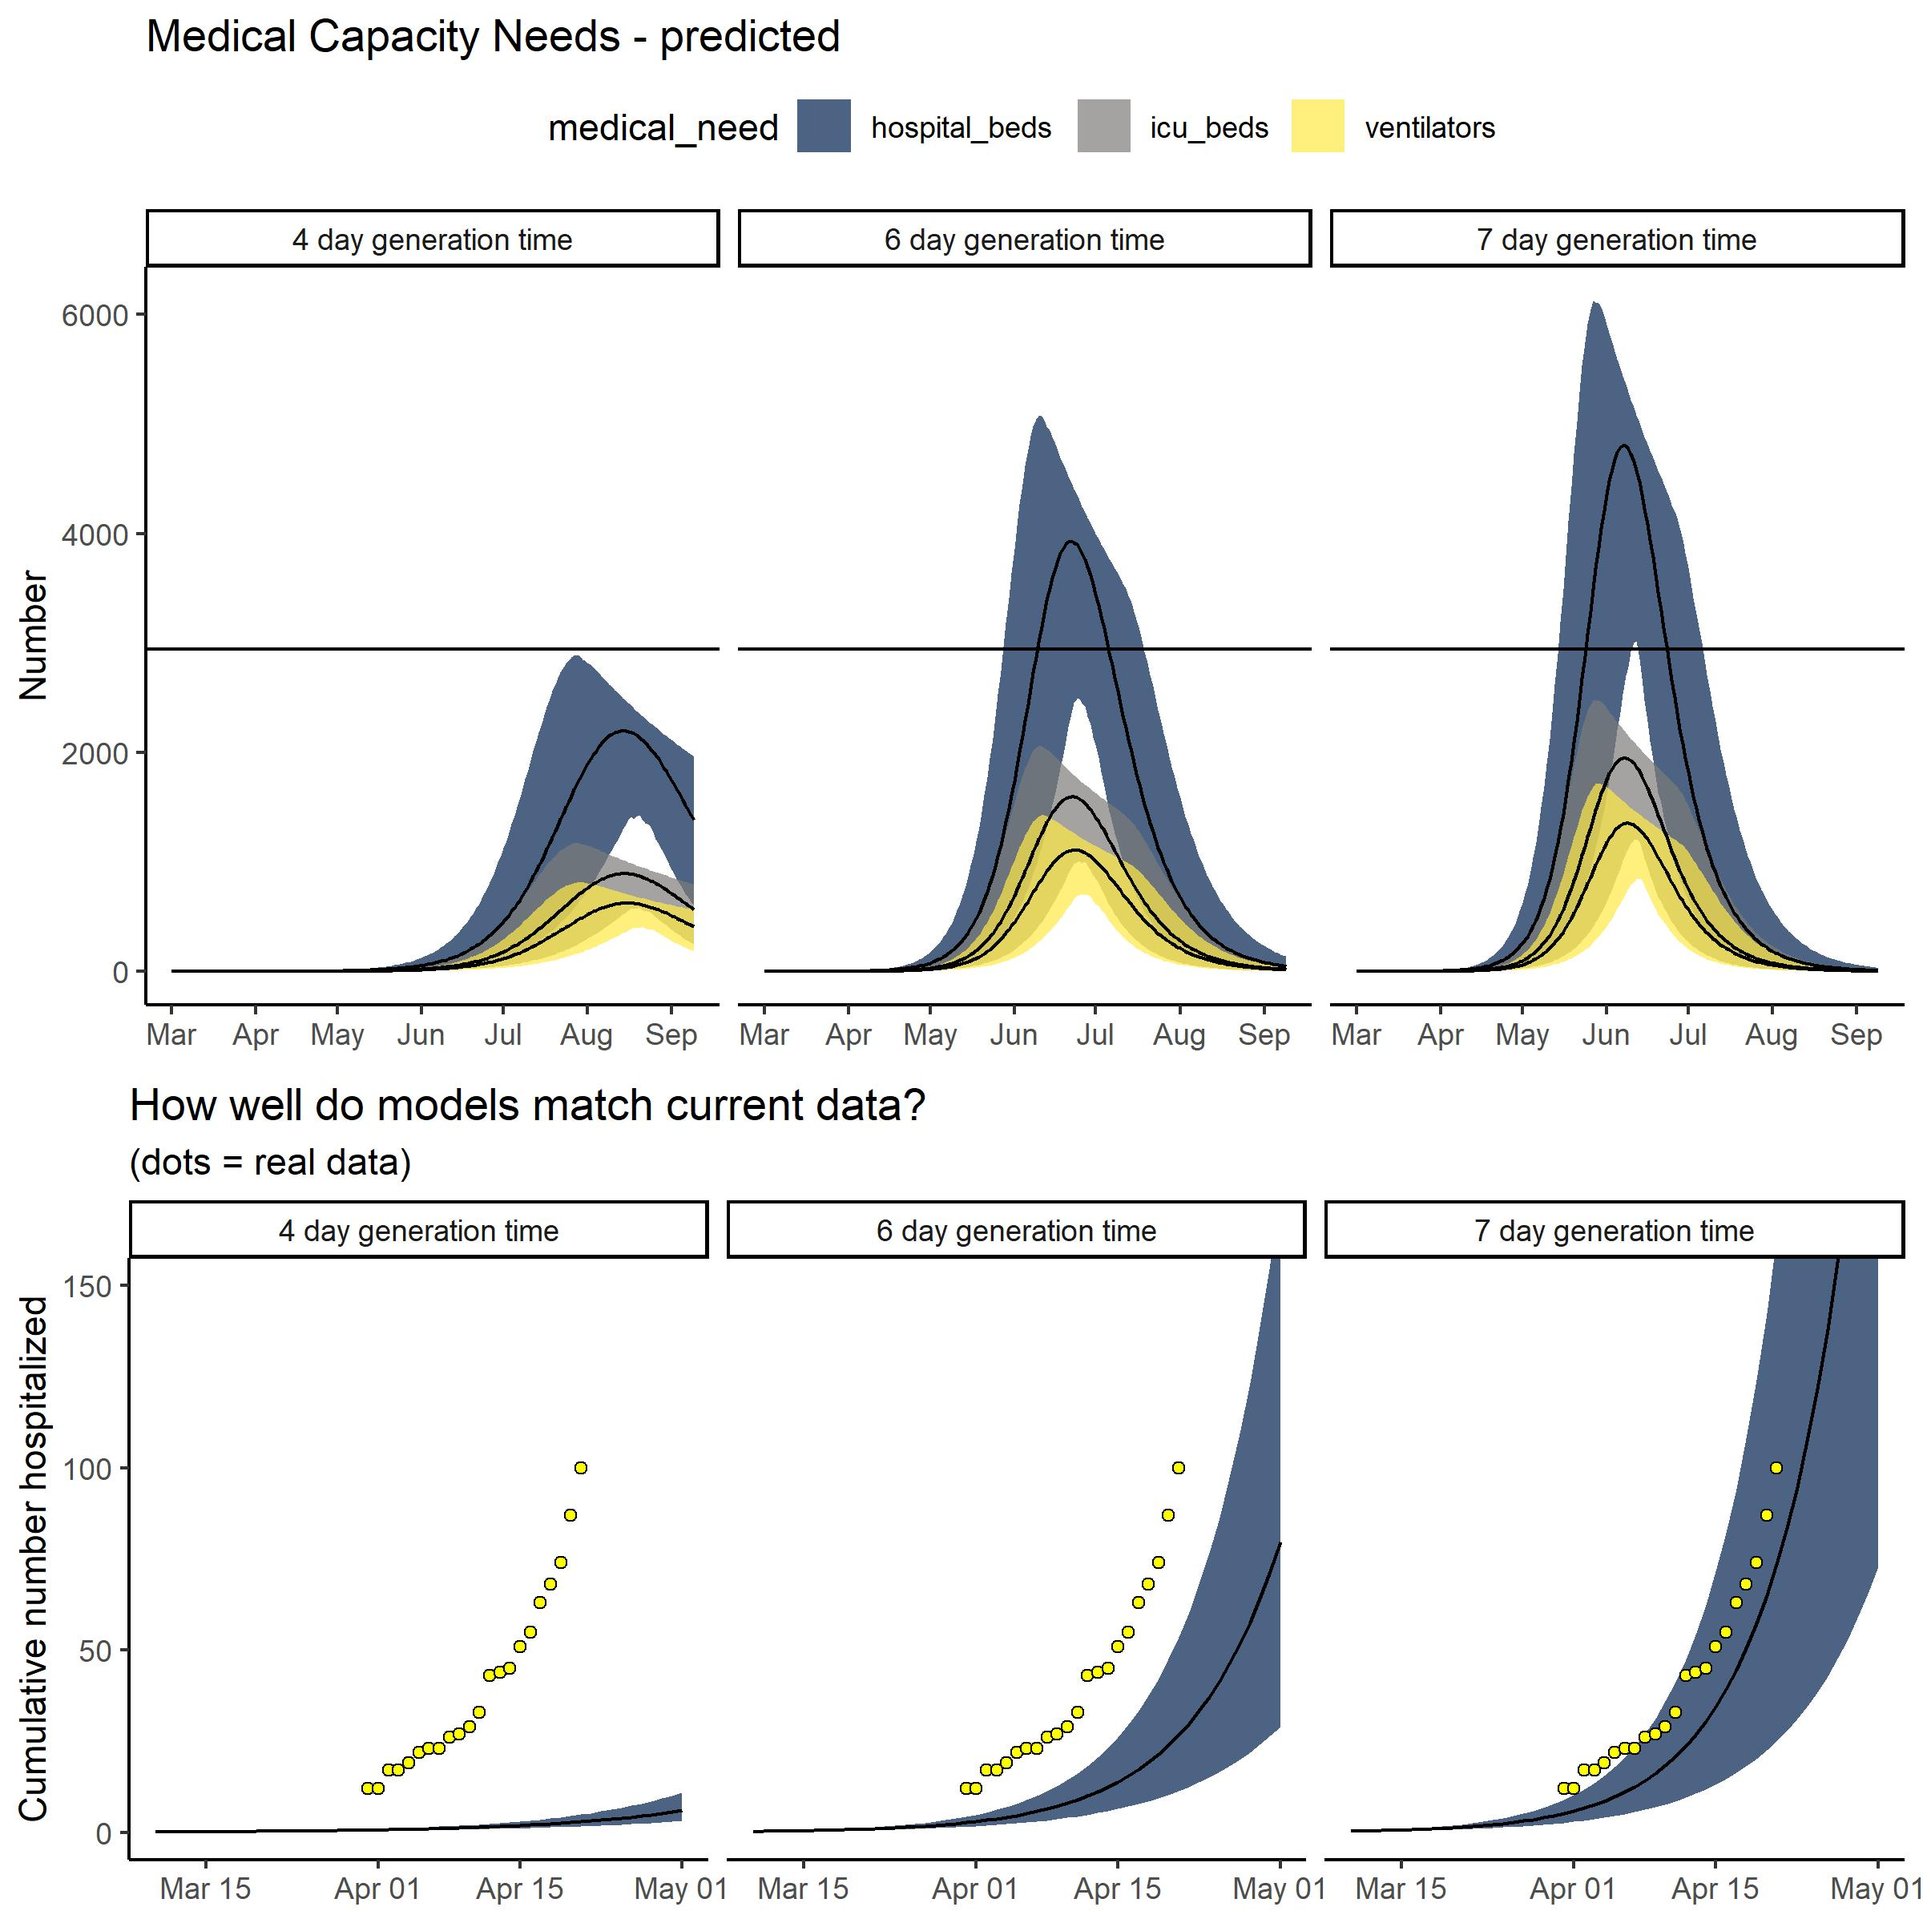
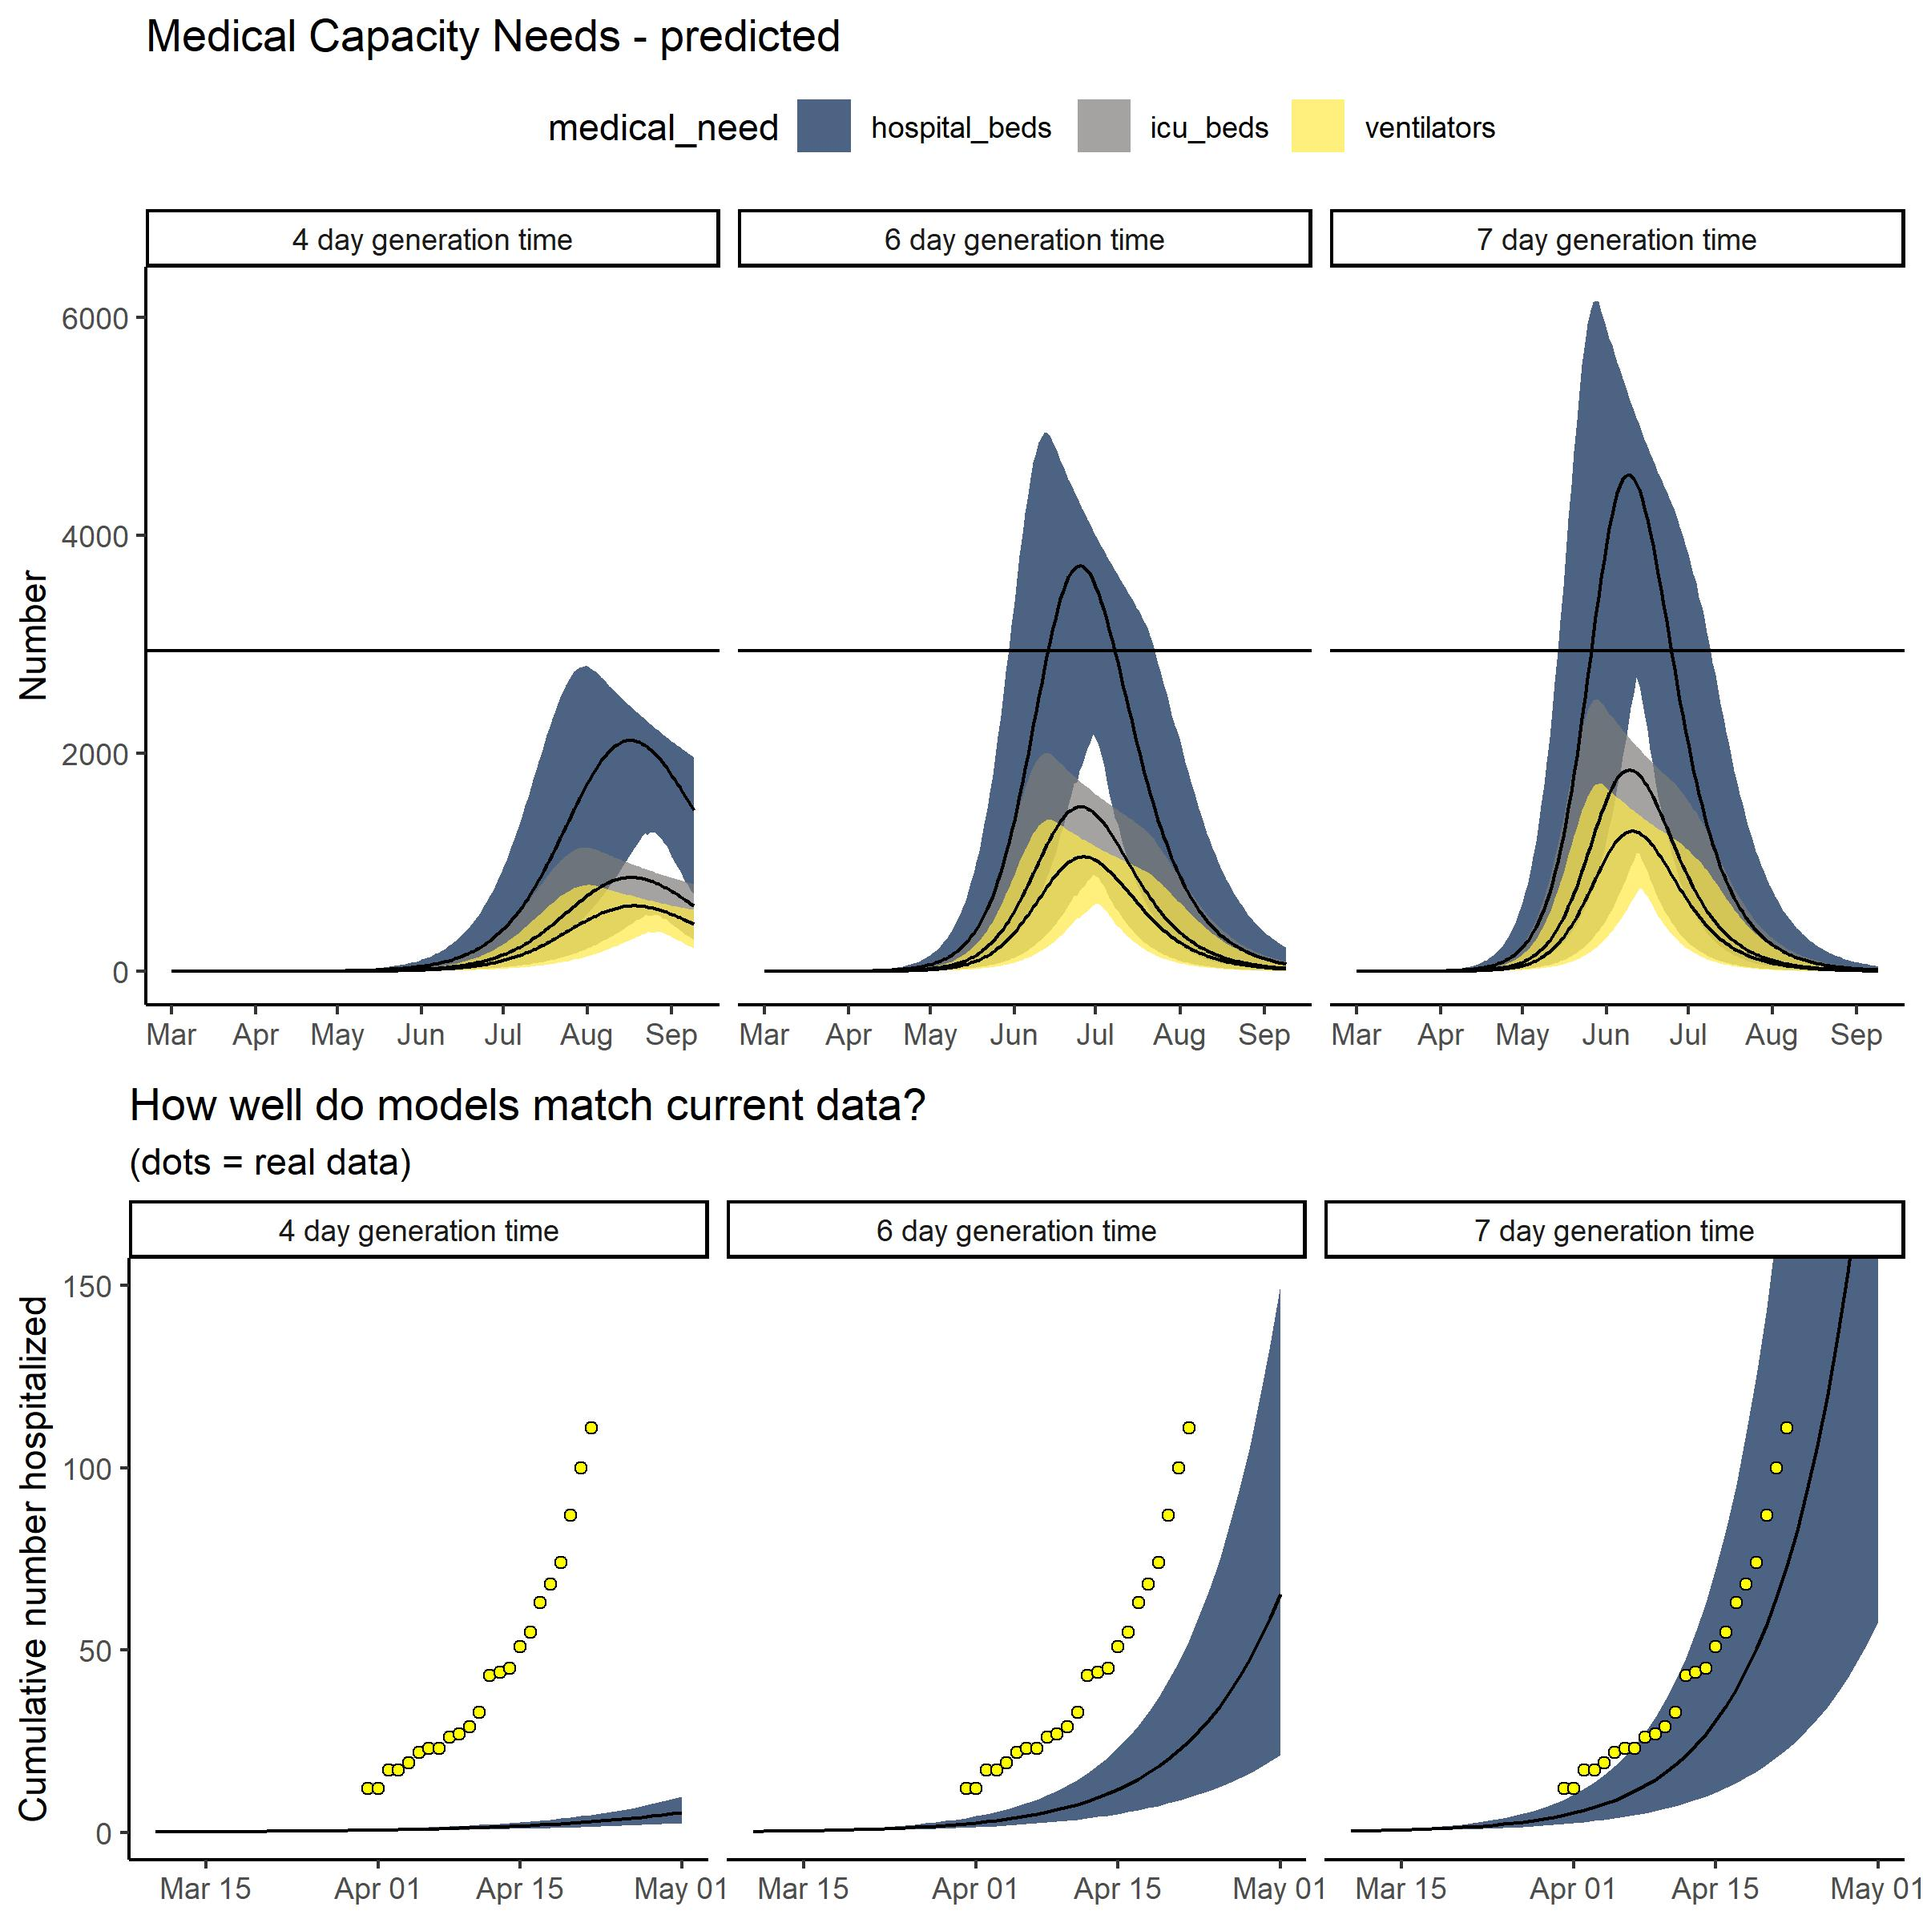
update

diff --git a/README.md b/README.md
@@ -80,9 +80,9 @@ samples from these values were entered into the following SIR model:
 
 | generation\_time | mean |   sd |
 | :--------------- | ---: | ---: |
-| GT4              | 1.50 | 0.03 |
-| GT6              | 1.74 | 0.05 |
-| GT7              | 1.87 | 0.06 |
+| GT4              | 1.49 | 0.03 |
+| GT6              | 1.73 | 0.05 |
+| GT7              | 1.85 | 0.06 |
 
 Table 1. R0 values and generation times (days) used to fit the SIR
 model.
@@ -128,9 +128,9 @@ hospitalization data. It indicates that peak resource use will occur
 
 | Need          | Mean | Lower95 | Upper95 |
 | :------------ | ---: | ------: | ------: |
-| Hospital Beds | 4803 |    3013 |    6125 |
-| ICU Beds      | 1951 |    1212 |    2479 |
-| Ventilators   | 1356 |     850 |    1718 |
+| Hospital Beds | 4559 |    2700 |    6154 |
+| ICU Beds      | 1851 |    1083 |    2496 |
+| Ventilators   | 1287 |     759 |    1727 |
 
 Table 2. Estimated peak medical needs in South Dakota. Dates for peak
 need are currently projected as early June, 2020.
